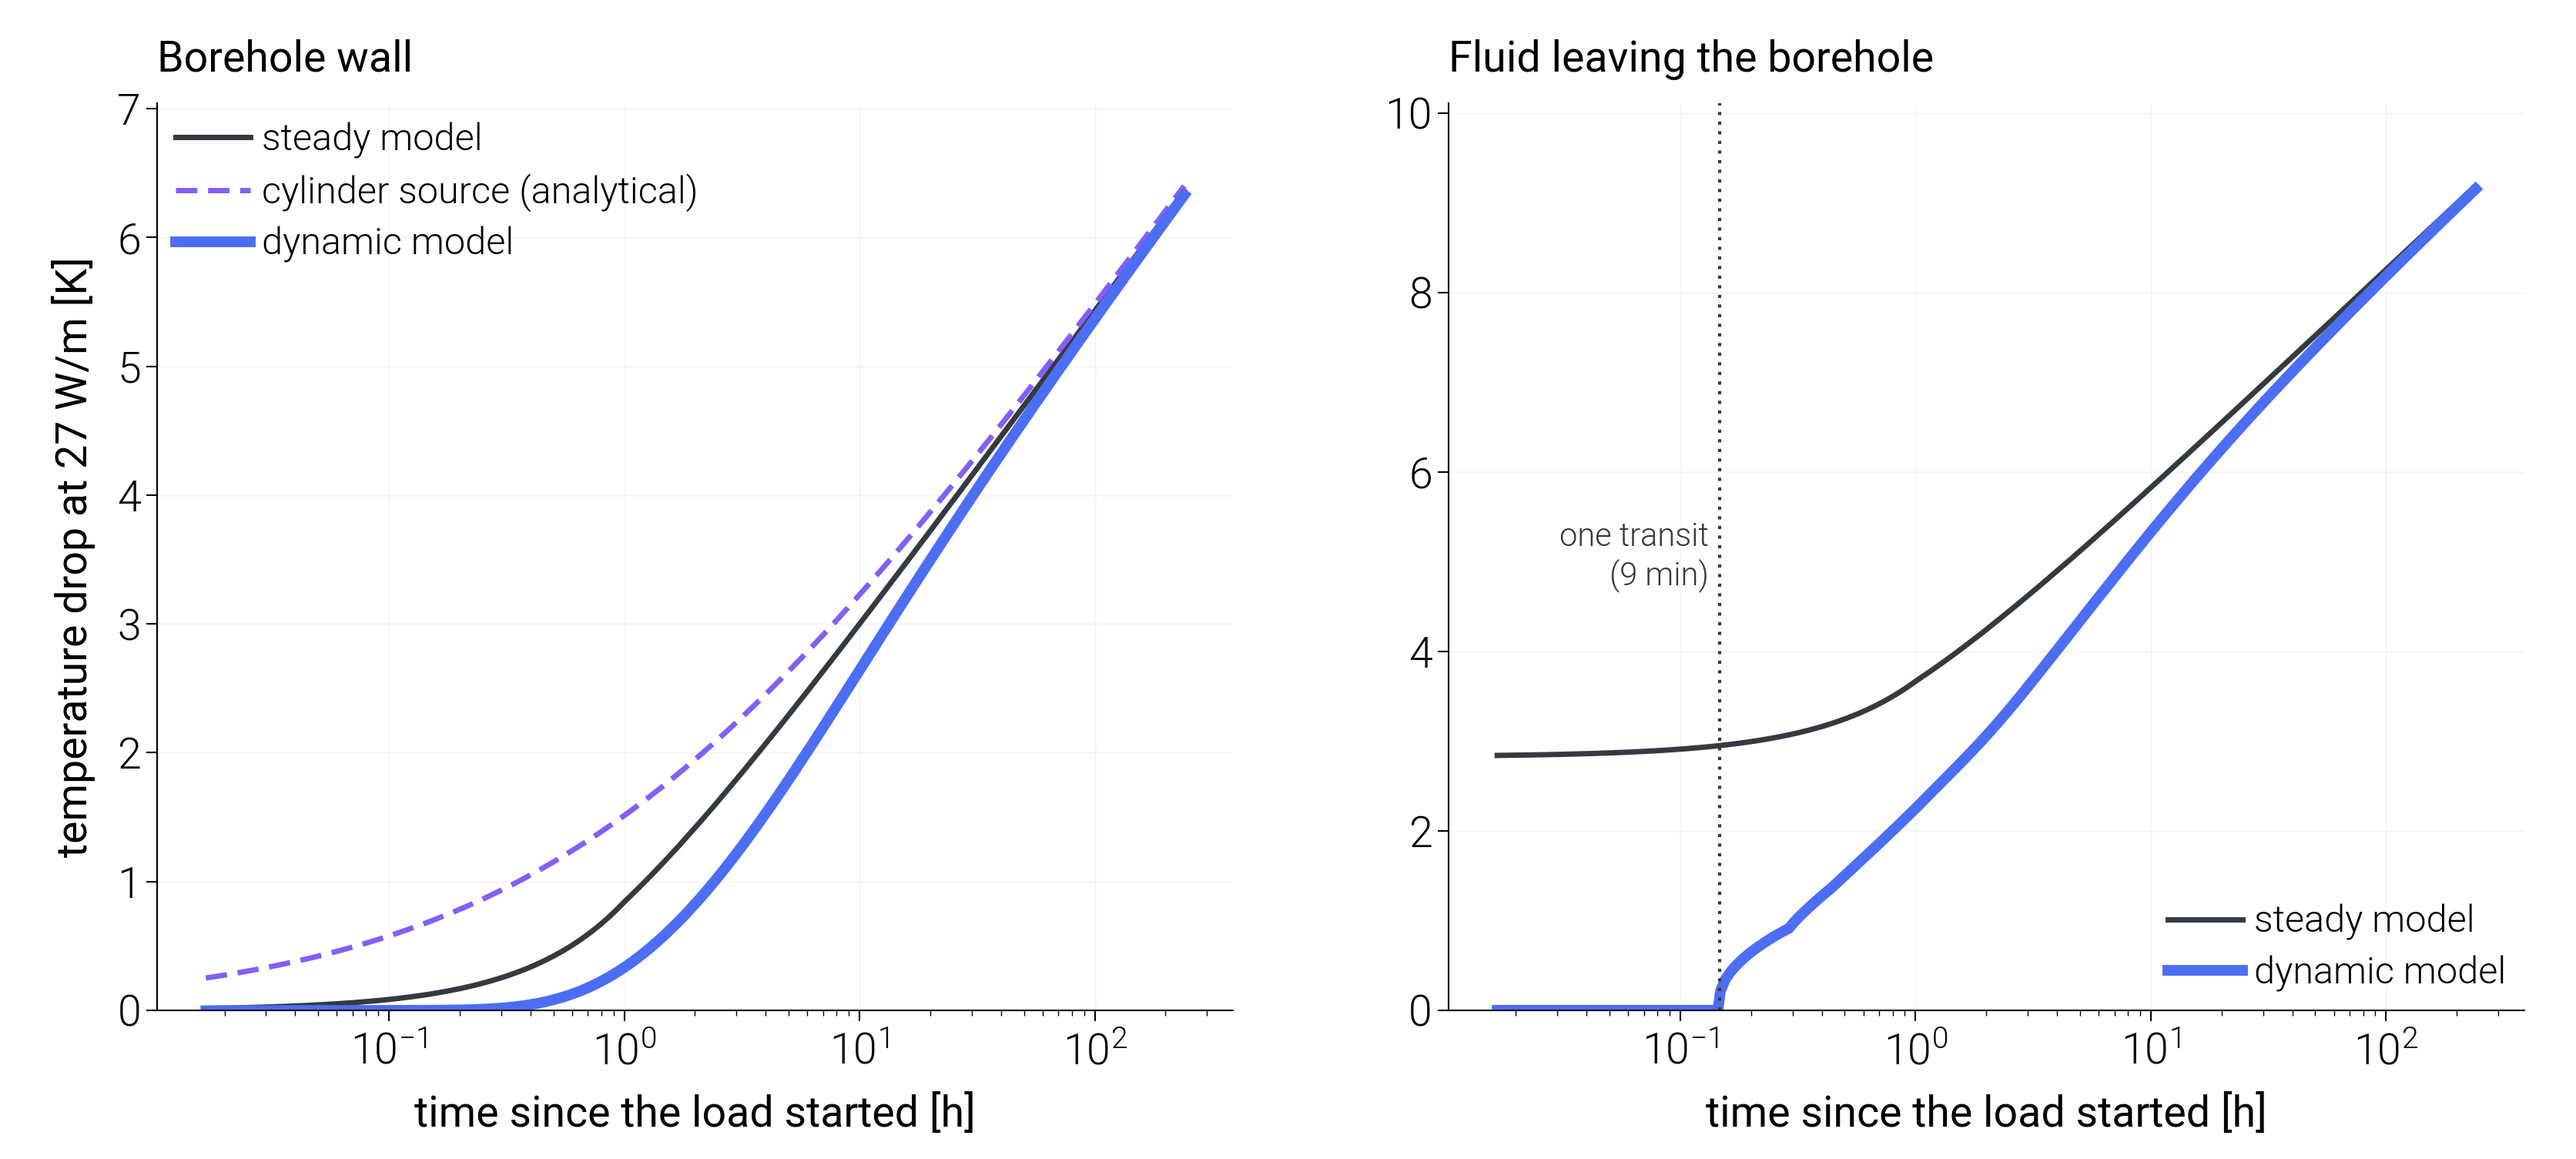
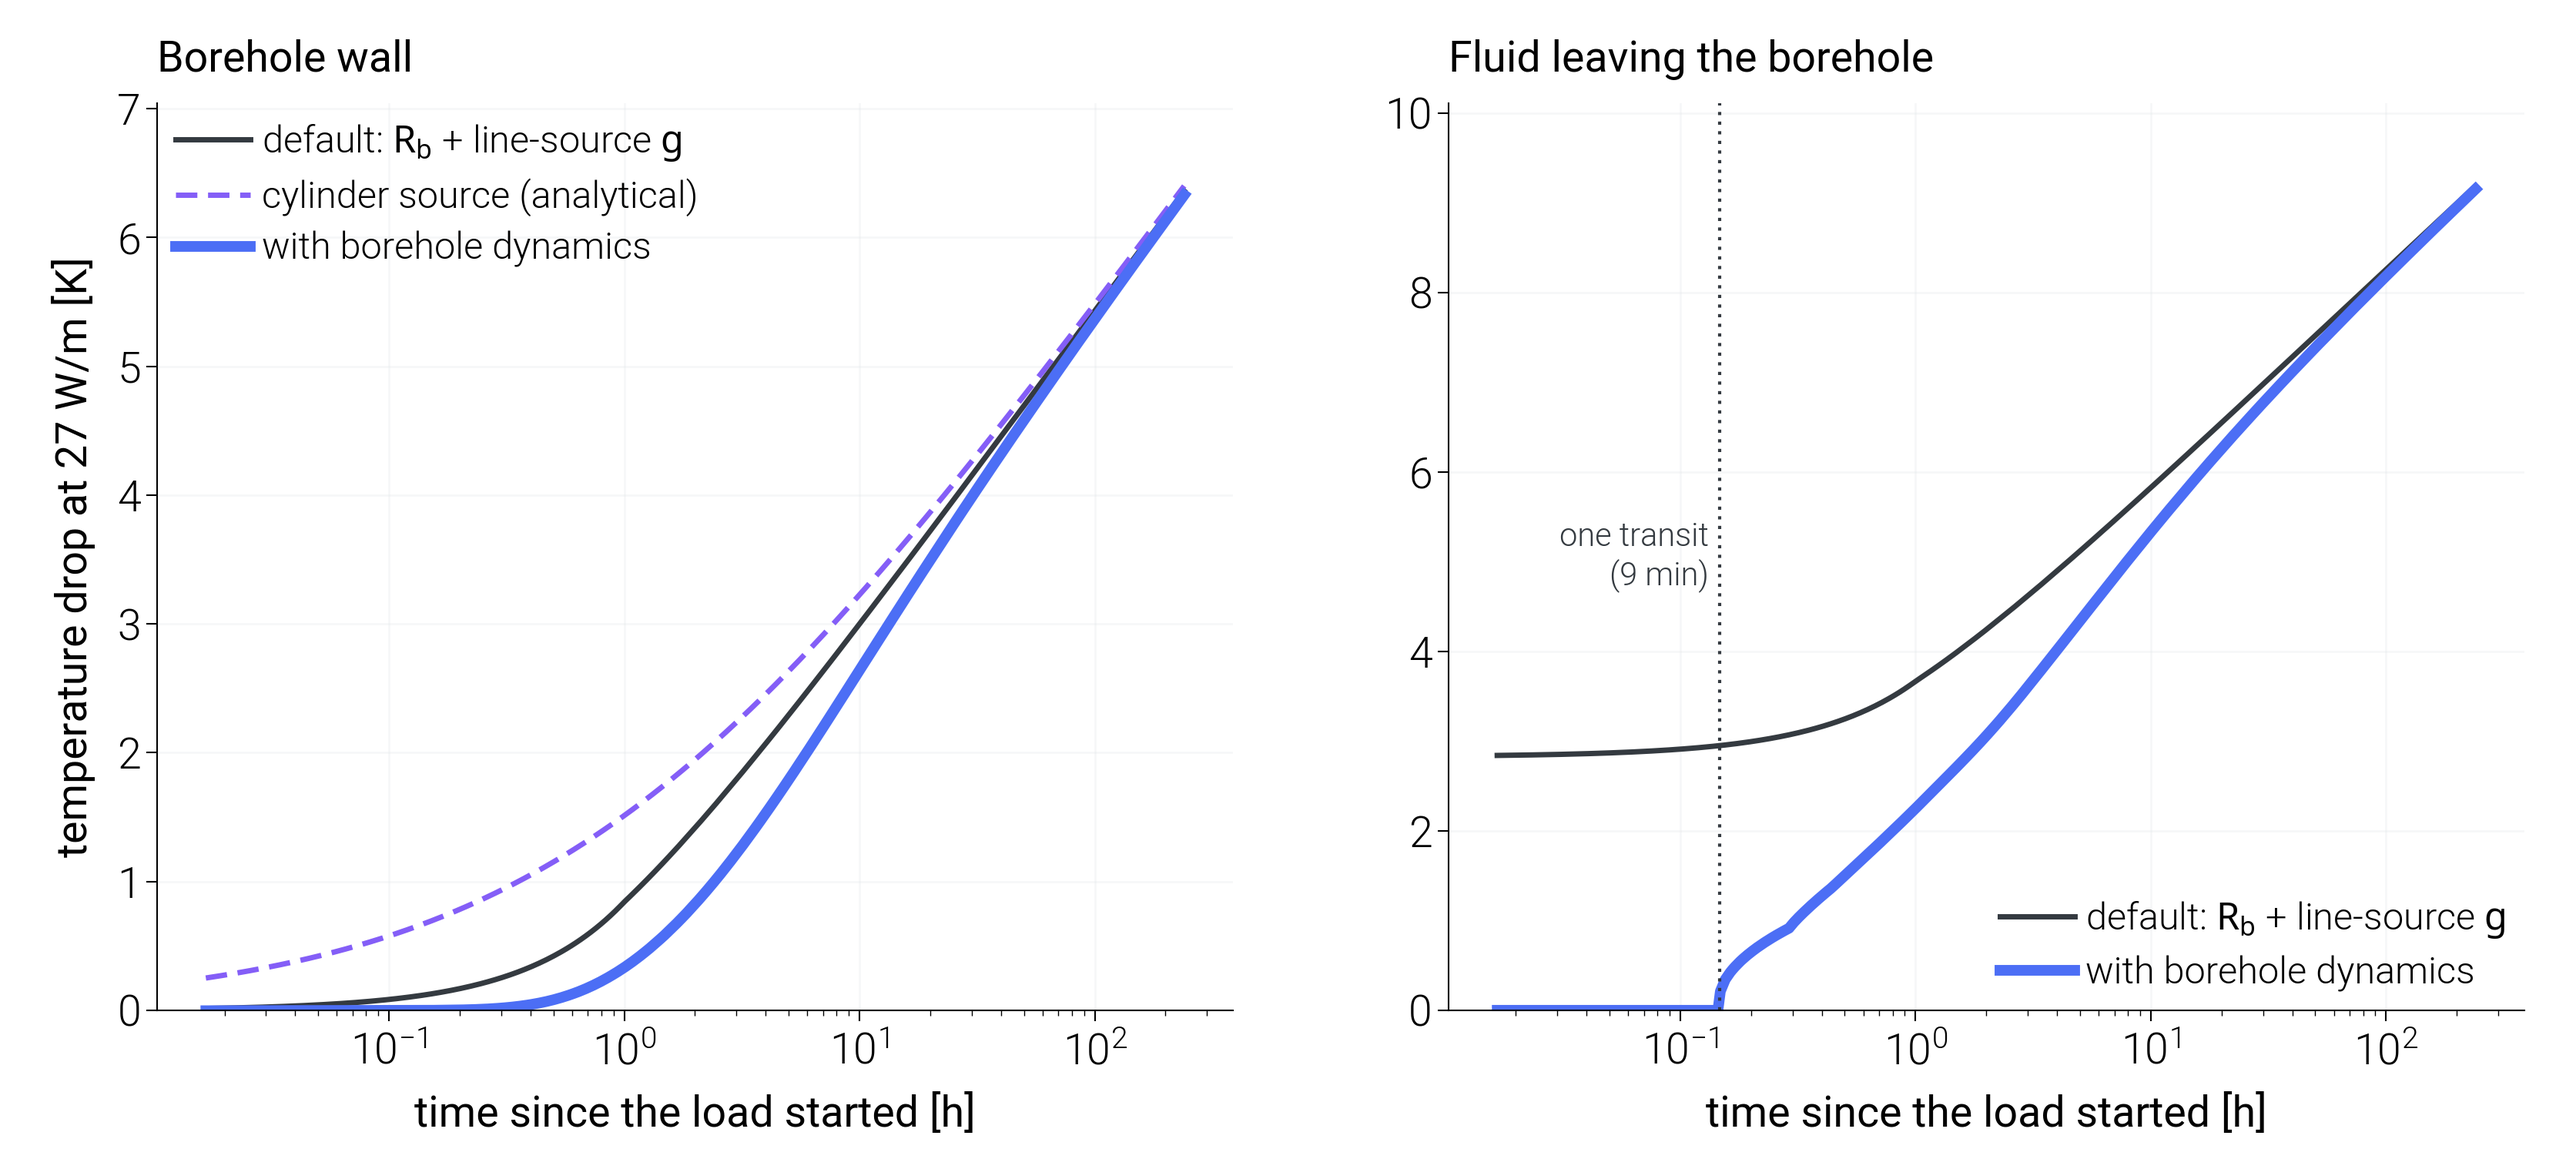
docs(ground): '정상 모델'의 정의와 차이가 남는 시간·이유·민감도 표, 그림 범례

Changed region(s): [[0.0622, 0.0937, 0.2798, 0.2186], [0.7773, 0.7807, 0.9949, 0.8432]]

diff --git a/scripts/visualization/ground_transient_response.py b/scripts/visualization/ground_transient_response.py
@@ -35,6 +35,10 @@ sys.path.insert(0, str(Path(__file__).resolve().parent))
 from _dmpl_common import COLORS, GRIDLINE, HAIRLINE, apply_style, finalize, static_path  # noqa: E402
 
 Q_LINE = 27.0  # W/m, extraction per metre of borehole
+# "Steady" is the inside of the borehole (a resistance, no heat capacity); the
+# ground is transient in both models.
+LABEL_STEADY = r"default: $R_b$ + line-source $g$"
+LABEL_DYNAMIC = "with borehole dynamics"
 ON_MIN, OFF_MIN = 10, 20
 
 
@@ -59,7 +63,7 @@ def step_response_figure() -> None:
     fig, (ax_w, ax_f) = plt.subplots(1, 2, figsize=(width, 0.45 * width), sharex=True)
 
     # Wall: steady g (line from the origin below 1 h), analytical cylinder source, dynamic wall.
-    ax_w.plot(hours, Q_LINE * g_steady(t), color=COLORS["ink"], linewidth=dm.lw(0), label="steady model")
+    ax_w.plot(hours, Q_LINE * g_steady(t), color=COLORS["ink"], linewidth=dm.lw(0), label=LABEL_STEADY)
     ax_w.plot(
         hours,
         Q_LINE * cylinder_source_wall(t, steady.k_s, steady.alp_s, steady.r_b),
@@ -68,14 +72,14 @@ def step_response_figure() -> None:
         linestyle=(0, (4, 2)),
         label="cylinder source (analytical)",
     )
-    ax_w.plot(hours, Q_LINE * g_dyn.wall(t), color=COLORS["accent"], linewidth=dm.lw(1), label="dynamic model")
+    ax_w.plot(hours, Q_LINE * g_dyn.wall(t), color=COLORS["accent"], linewidth=dm.lw(1), label=LABEL_DYNAMIC)
     ax_w.set_title("Borehole wall", loc="left", fontsize=dm.fs(0))
     ax_w.set_ylabel(f"temperature drop at {Q_LINE:.0f} W/m [K]")
 
     # Outlet: T_s - T_out = q' (K + R_b - H / (2 m c_p)).
-    ax_f.plot(hours, Q_LINE * (g_steady(t) + r_b - half), color=COLORS["ink"], linewidth=dm.lw(0), label="steady model")
+    ax_f.plot(hours, Q_LINE * (g_steady(t) + r_b - half), color=COLORS["ink"], linewidth=dm.lw(0), label=LABEL_STEADY)
     ax_f.plot(
-        hours, Q_LINE * (g_dyn(t) + r_b - half), color=COLORS["accent"], linewidth=dm.lw(1), label="dynamic model"
+        hours, Q_LINE * (g_dyn(t) + r_b - half), color=COLORS["accent"], linewidth=dm.lw(1), label=LABEL_DYNAMIC
     )
     transit_h = g_dyn.transit_time / 3600.0
     ax_f.axvline(transit_h, color=COLORS["ink"], linewidth=HAIRLINE, linestyle=(0, (1, 2)))
@@ -132,8 +136,8 @@ def cycling_figure() -> None:
         119, steady.Ts + 0.08, "undisturbed ground", ha="right", va="bottom", fontsize=dm.fs(-2), color=COLORS["ink"]
     )
     for frame, label, color, width in (
-        (frames[0], "steady model", COLORS["ink"], dm.lw(0)),
-        (frames[1], "dynamic model", COLORS["accent"], dm.lw(1)),
+        (frames[0], LABEL_STEADY, COLORS["ink"], dm.lw(0)),
+        (frames[1], LABEL_DYNAMIC, COLORS["accent"], dm.lw(1)),
     ):
         ax.plot(
             minutes,

diff --git a/docs/source/models/ground-response.rst b/docs/source/models/ground-response.rst
@@ -63,6 +63,15 @@ minute-scale cycling the steady model swings the source temperature by
 :math:`q' R_b^*` (3 to 5 K) at every start and stop, which a borehole does not
 do.
 
+.. note::
+
+    *Steady model* below means this default path: the multipole borehole
+    resistance plus the finite-line-source g-function, the usual way to
+    compute borehole fluid temperatures. "Steady" refers to the inside of the
+    borehole, which is a resistance with no heat capacity. The ground is
+    transient in both models, and the dynamic model uses the same resistance
+    and the same g-function; it adds what happens inside the borehole.
+
 
 Dynamic borehole model
 ======================
@@ -297,6 +306,112 @@ equivalent cylinder): for DN32 sections the correction is within about 5 % of
 case of 7.4 % for a 0.2 m borehole with low-conductivity grout. Against
 GHEDesigner's short-time-step response (the same model family) it differs by
 2 to 5.5 % of :math:`R_b` at one hour and under 0.0006 m·K/W after a day.
+
+
+How long the difference lasts
+-----------------------------
+
+The two models describe the same borehole in the same ground, so they must
+agree eventually. They do, but slowly: the difference decays like
+:math:`\ln t / t`, not exponentially.
+
+.. list-table:: Mean fluid temperature drop after a 27 W/m step: default path and dynamic model
+    :header-rows: 1
+    :widths: 14 14 18 18 18 18
+
+    * - Time
+      - :math:`\alpha t / r_b^2`
+      - Default [K]
+      - Dynamic [K]
+      - Difference [K]
+      - Heat still stored in the borehole
+    * - 1 h
+      - 1
+      - 5.28
+      - 3.76
+      - −1.52 (29 %)
+      - 86 %
+    * - 6 h
+      - 4
+      - 6.92
+      - 6.22
+      - −0.70 (10 %)
+      - 42 %
+    * - 24 h
+      - 17
+      - 8.36
+      - 8.11
+      - −0.25 (3.0 %)
+      - 16 %
+    * - 100 h
+      - 70
+      - 9.88
+      - 9.81
+      - −0.07 (0.7 %)
+      - 5 %
+    * - 10 d
+      - 169
+      - 10.82
+      - 10.78
+      - −0.03 (0.3 %)
+      - 2.5 %
+    * - 30 d
+      - 506
+      - 12.00
+      - 11.99
+      - −0.01 (0.1 %)
+      - 1.0 %
+
+The last column is the share of all heat extracted so far that came out of
+the fluid, pipes and grout rather than the ground. A line-source g-function
+evaluated at :math:`r_b` treats the borehole as if it were filled with soil.
+The real borehole holds more heat (78 kJ/(m·K) against 32 for the soil it
+replaces, with the defaults) and its inside sits :math:`q' R_b` away from the
+wall temperature, so it has more heat to give up before the ground carries
+the whole load. The ground therefore lags by a few hours of load, and a line
+source that lags by :math:`\Delta t` differs by about
+:math:`q' \Delta t / (4 \pi k_s t)`. The finite-volume values in the table
+agree with the Laplace solution of the same section to 0.001 K at every row,
+so the tail is a property of the model, not of its discretisation.
+
+How large it is depends on the borehole. The defaults make it large: a wide
+borehole (160 mm), light soil (1.6 MJ/(m³·K)) and a water-rich grout
+(3.9 MJ/(m³·K)).
+
+.. list-table:: Difference from the default path [K] at 27 W/m
+    :header-rows: 1
+    :widths: 46 13 13 14 14
+
+    * - Borehole
+      - 1 h
+      - 6 h
+      - 24 h
+      - 100 h
+    * - Default (r_b 80 mm, soil 1.6, grout 3.9 MJ/(m³·K))
+      - −1.52
+      - −0.70
+      - −0.25
+      - −0.07
+    * - Default with grout 2.5 MJ/(m³·K)
+      - −1.17
+      - −0.37
+      - −0.12
+      - −0.04
+    * - Default with grout as light as the soil
+      - −0.84
+      - −0.16
+      - −0.04
+      - −0.01
+    * - 110 mm borehole in rock (k_s 3.0, 2.2 MJ/(m³·K))
+      - −0.87
+      - −0.20
+      - −0.06
+      - −0.02
+
+The grout heat capacity is the one input of the dynamic model that the
+default path never needed. If it is not known, 3.9 MJ/(m³·K) suits bentonite
+grouts and overstates the effect for cement-sand and thermally enhanced
+grouts; pass ``rhoc_g``.
 
 
 What changes in a run
